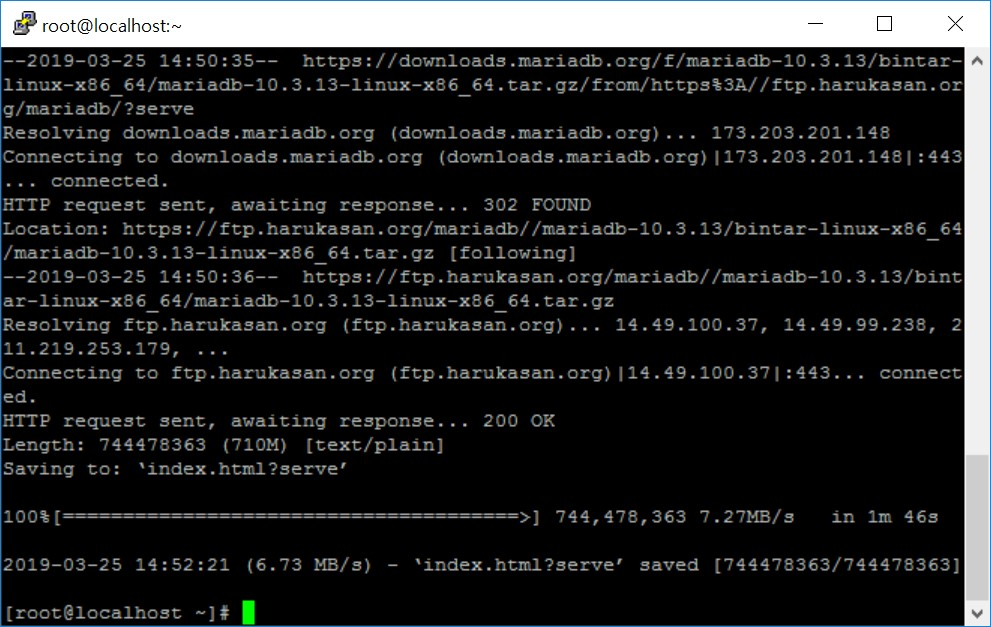
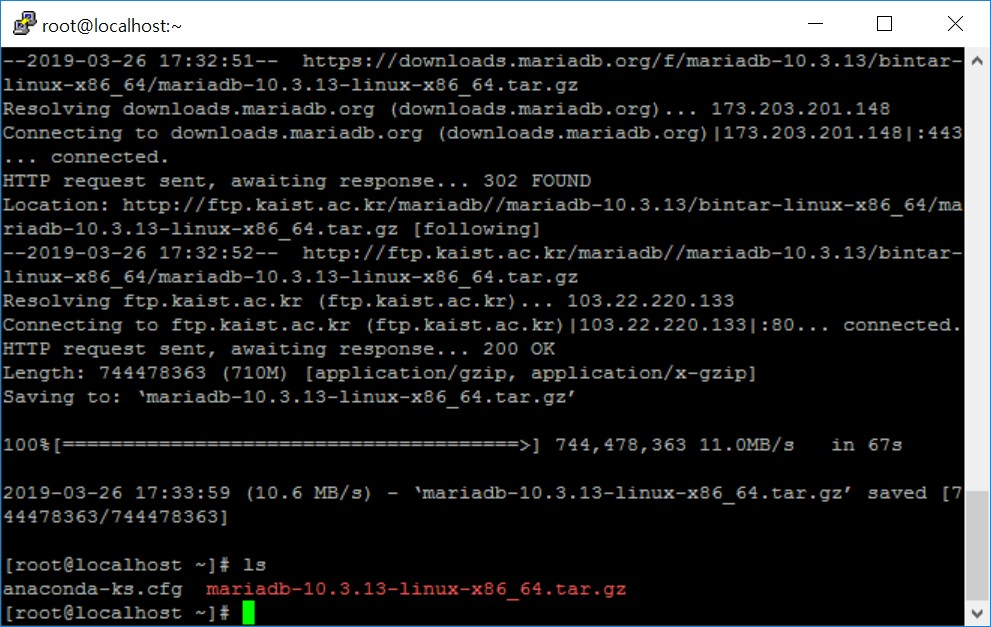
adds

diff --git a/_posts/2019-03-25-rinux-binary.md.md b/_posts/2019-03-25-rinux-binary.md.md
@@ -23,9 +23,9 @@ cover:  "/assets/header_image4.png"
 
 <h2>wget으로 MariaDB 다운로드</h2>
 
-<h4>wget https://downloads.mariadb.org/f/mariadb-10.3.13/bintar-linux-x86_64/mariadb-10.3.13-linux-x86_64.tar.gz/from/https%3A//</h4>
+<h4>wget https://downloads.mariadb.org/f/mariadb-10.3.13/bintar-linux-x86_64/mariadb-10.3.13-linux-x86_64.tar.gz</h4>
  
-<a href="https://downloads.mariadb.org/f/mariadb-10.3.13/bintar-linux-x86_64/mariadb-10.3.13-linux-x86_64.tar.gz/from/https%3A/">https://downloads.mariadb.org/f/mariadb-10.3.13/bintar-linux-x86_64/mariadb-10.3.13-linux-x86_64.tar.gz/from/https%3A/</a>
+<a href="https://downloads.mariadb.org/f/mariadb-10.3.13/bintar-linux-x86_64/mariadb-10.3.13-linux-x86_64.tar.gz">https://downloads.mariadb.org/f/mariadb-10.3.13/bintar-linux-x86_64/mariadb-10.3.13-linux-x86_64.tar.gz</a>
  
 <img  src="/assets/images/bi2.jpg">
 
@@ -34,7 +34,7 @@ cover:  "/assets/header_image4.png"
 <h2>압축풀기</h2>
 
 <br>
-<h4>tar zxvf index(tab)</h4>
+<h4>tar zxvf mariadb-10.3.13-linux-x86_64.tar.gz </h4>
 
  <br>
 
@@ -49,7 +49,10 @@ cover:  "/assets/header_image4.png"
 <h4>mv mariadb-10.3.13-linux-x86_64/ /usr/local/</h4>
 <br>
 <h2>퍼블릭링크설정</h2>
-<h4>ln -s usr/local/mariadb-10.3.13<tab> mariadb
+<h4>cd /usr/local/
+
+<br>
+ln -s usr/local/mariadb-10.3.13<tab> mariadb
 <br>
 <h4>
 groupadd mysql
@@ -58,17 +61,17 @@ groupadd mysql
 useradd -g mysql mysql
 
 <br>
-
+cd 
 mkdir /data
 <br>
 
 mkdir /log
 
 <br>
-chown -R mysql.mysql(userid) /usr/local/mariadb (파일위치)
+chown -R mysql.mysql(groupid.userid) /usr/local/mariadb (파일위치)
 
 <br>
-chown -R mysql.mysql(userid) /usr/local/mariadb
+chown -R mysql.mysql /usr/local/mariadb
 <br>
 
 chown -R mysql.mysql /data
